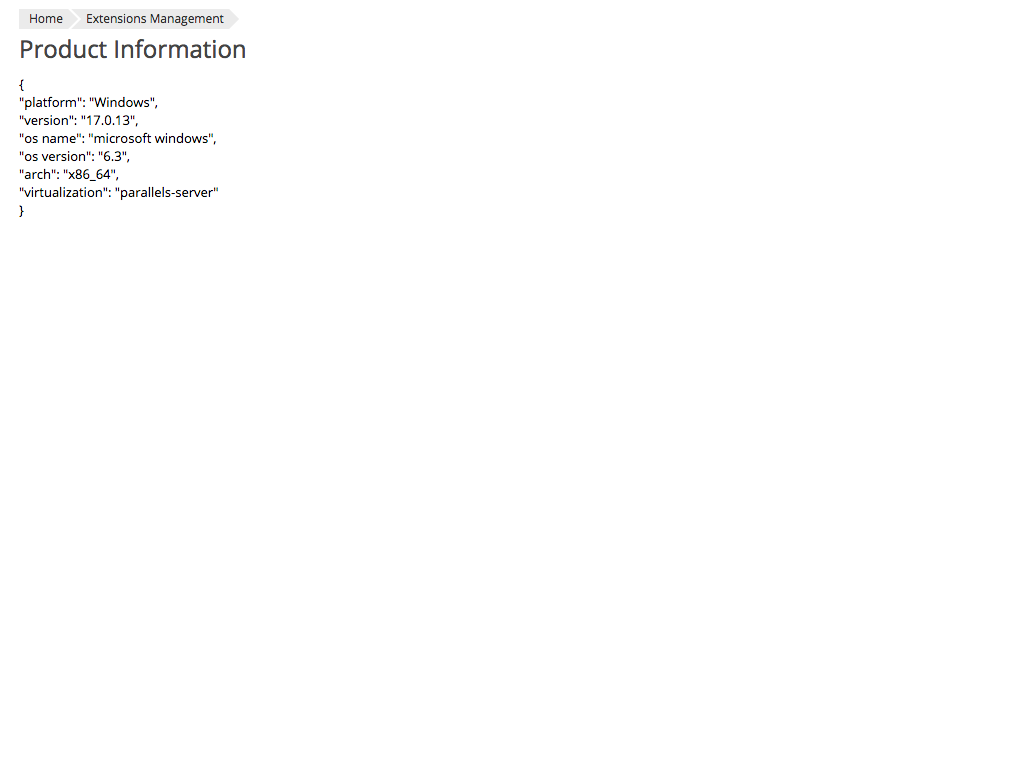
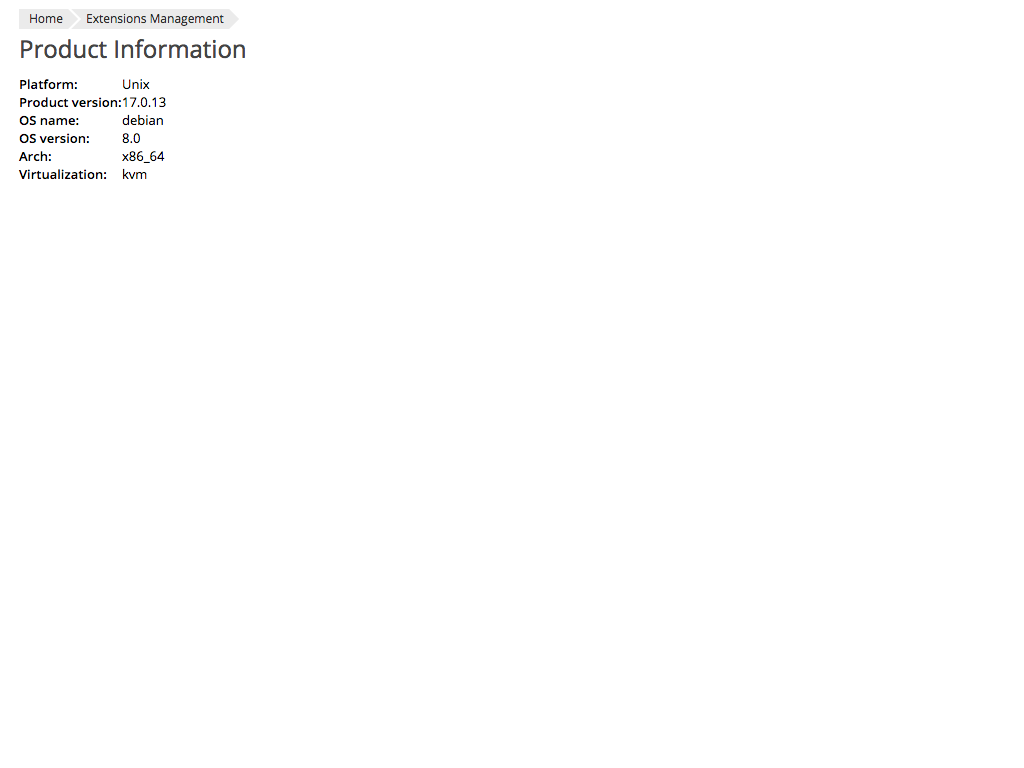
separate json output

Changed region(s): [[0.0, 0.0938, 0.2188, 0.2812]]

diff --git a/plib/library/Product.php b/plib/library/Product.php
@@ -5,12 +5,12 @@ class Modules_ProductInfo_Product
     public function getInfo()
     {
         return [
-            'platform' => pm_ProductInfo::getPlatform(),
-            'version' => pm_ProductInfo::getVersion(),
-            'os name' => pm_ProductInfo::getOsName(),
-            'os version' => pm_ProductInfo::getOsVersion(),
-            'arch' => pm_ProductInfo::getOsArch(),
-            'virtualization' => pm_ProductInfo::getVirtualization(),
+            'Platform' => pm_ProductInfo::getPlatform(),
+            'Product version' => pm_ProductInfo::getVersion(),
+            'OS name' => pm_ProductInfo::getOsName(),
+            'OS version' => pm_ProductInfo::getOsVersion(),
+            'Arch' => pm_ProductInfo::getOsArch(),
+            'Virtualization' => pm_ProductInfo::getVirtualization(),
         ];
     }
 }

diff --git a/plib/controllers/IndexController.php b/plib/controllers/IndexController.php
@@ -5,6 +5,12 @@ class IndexController extends pm_Controller_Action
     public function indexAction()
     {
         $this->view->pageTitle = 'Product Information';
-        $this->view->osInfo = json_encode((new Modules_ProductInfo_Product())->getInfo(), JSON_PRETTY_PRINT);
+        $this->view->osInfo = (new Modules_ProductInfo_Product())->getInfo();
+
+    }
+
+    public function jsonAction()
+    {
+        $this->_helper->json((new Modules_ProductInfo_Product())->getInfo());
     }
 }
